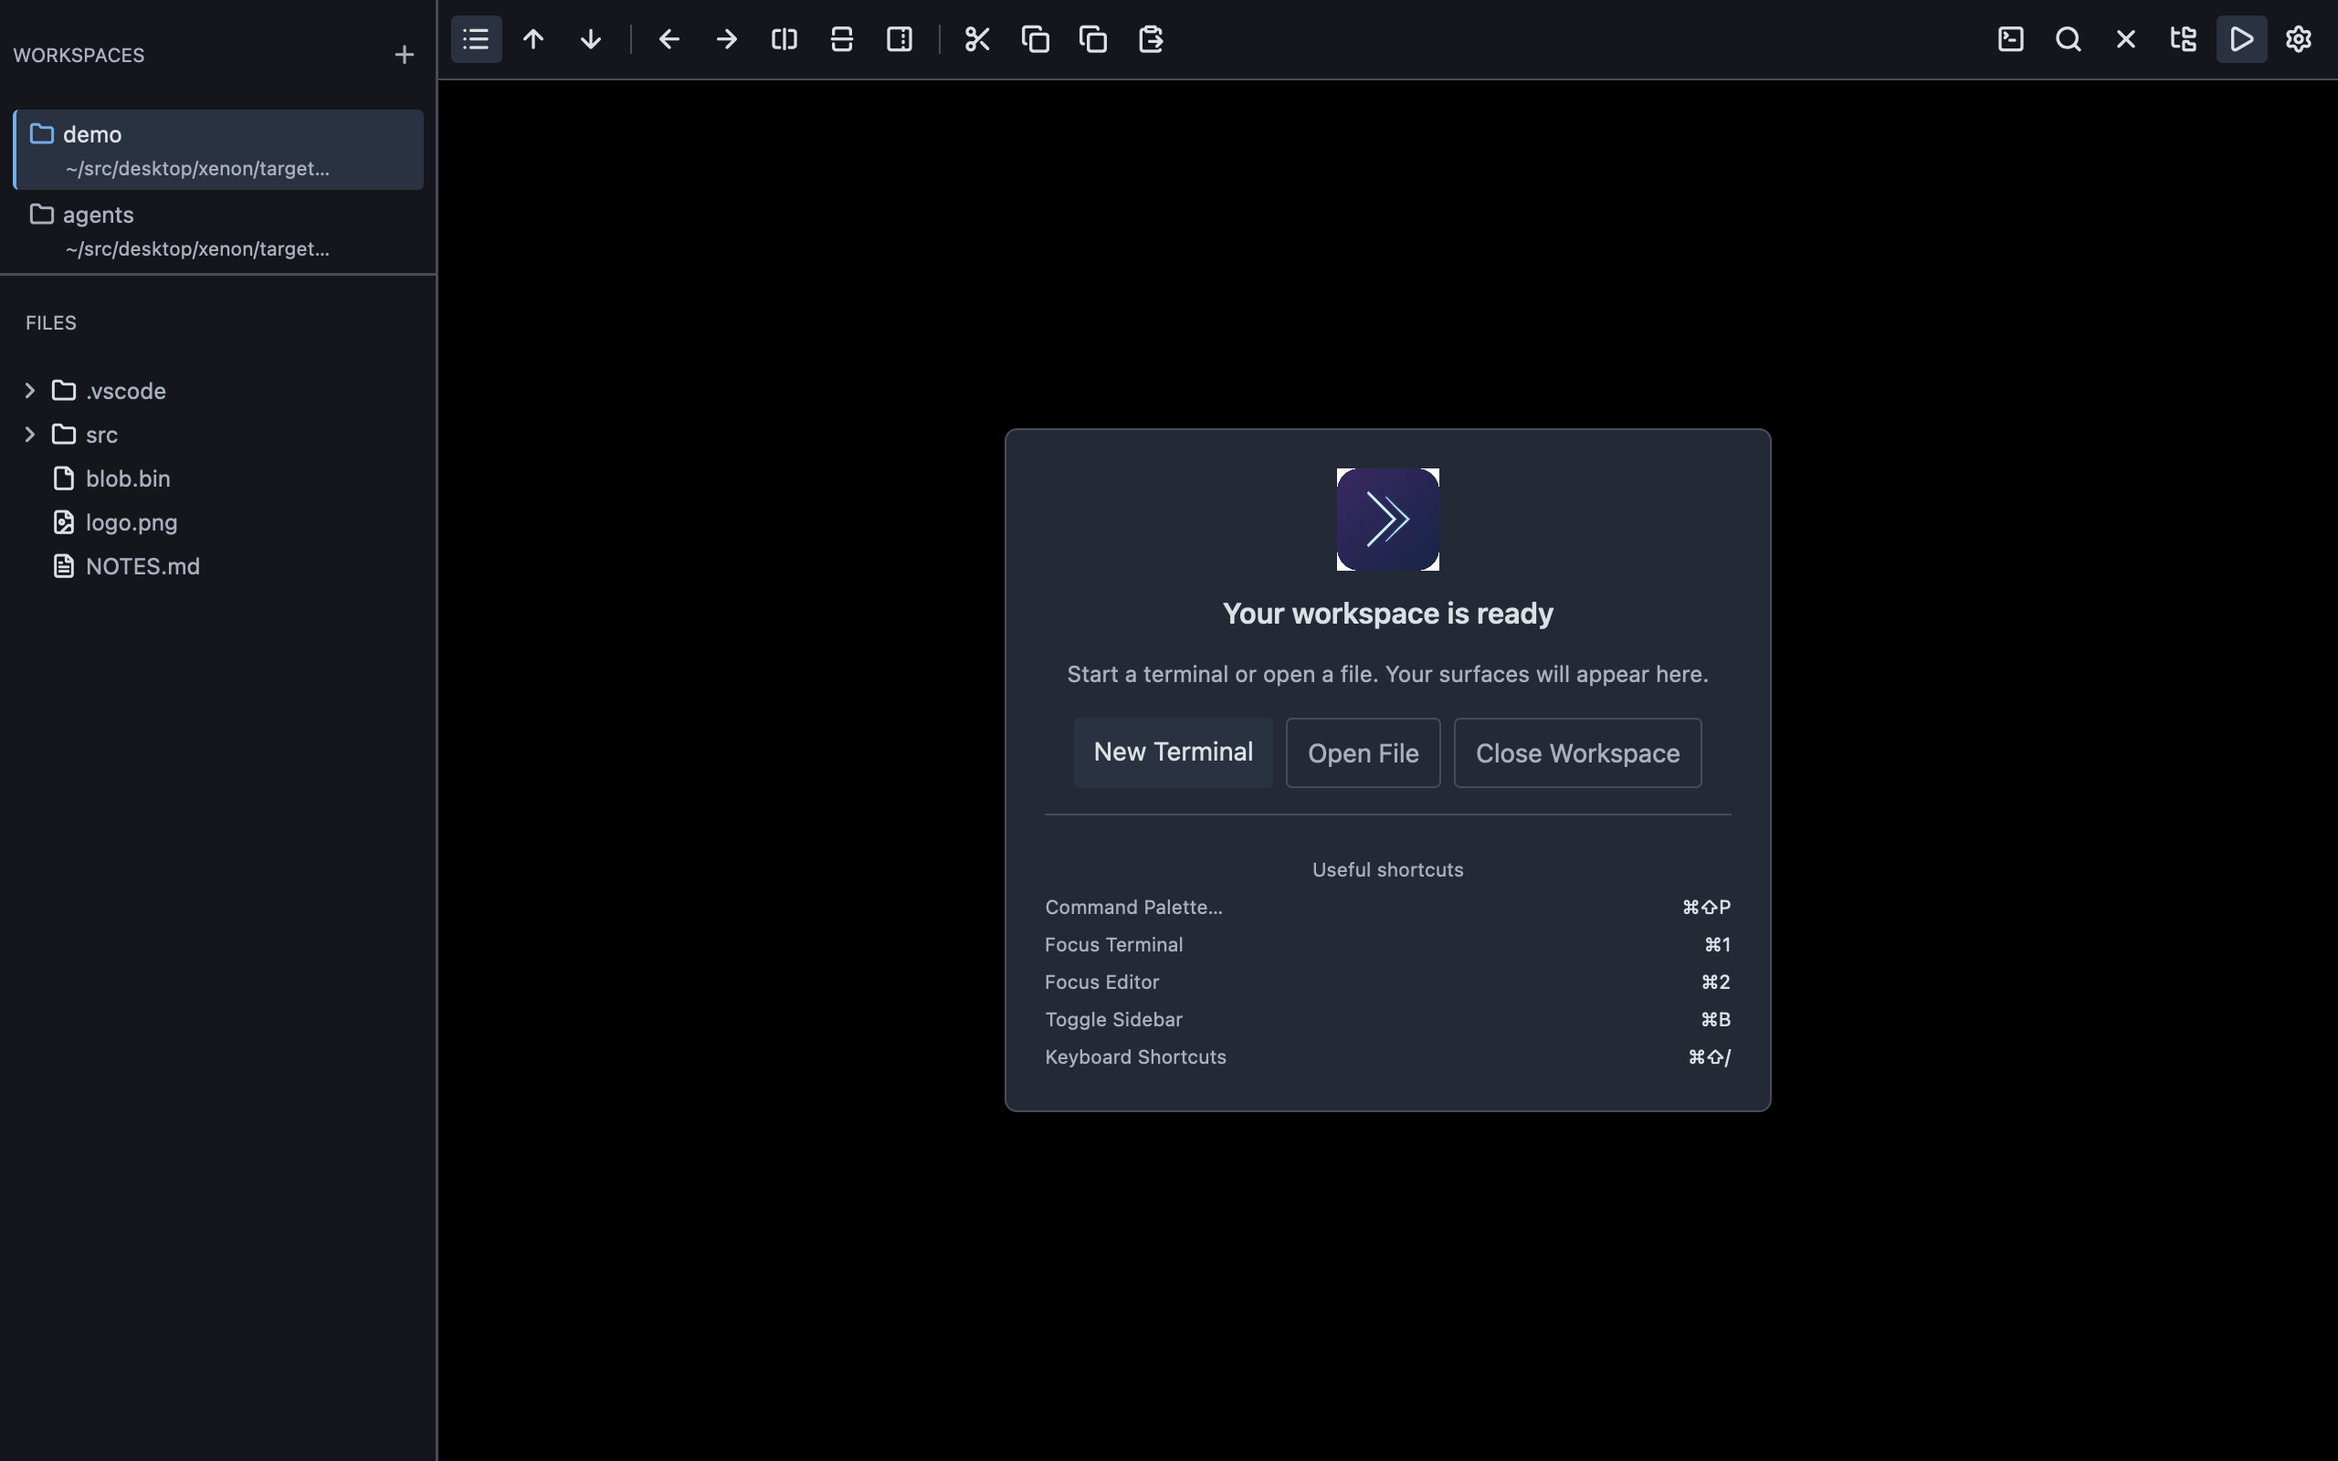
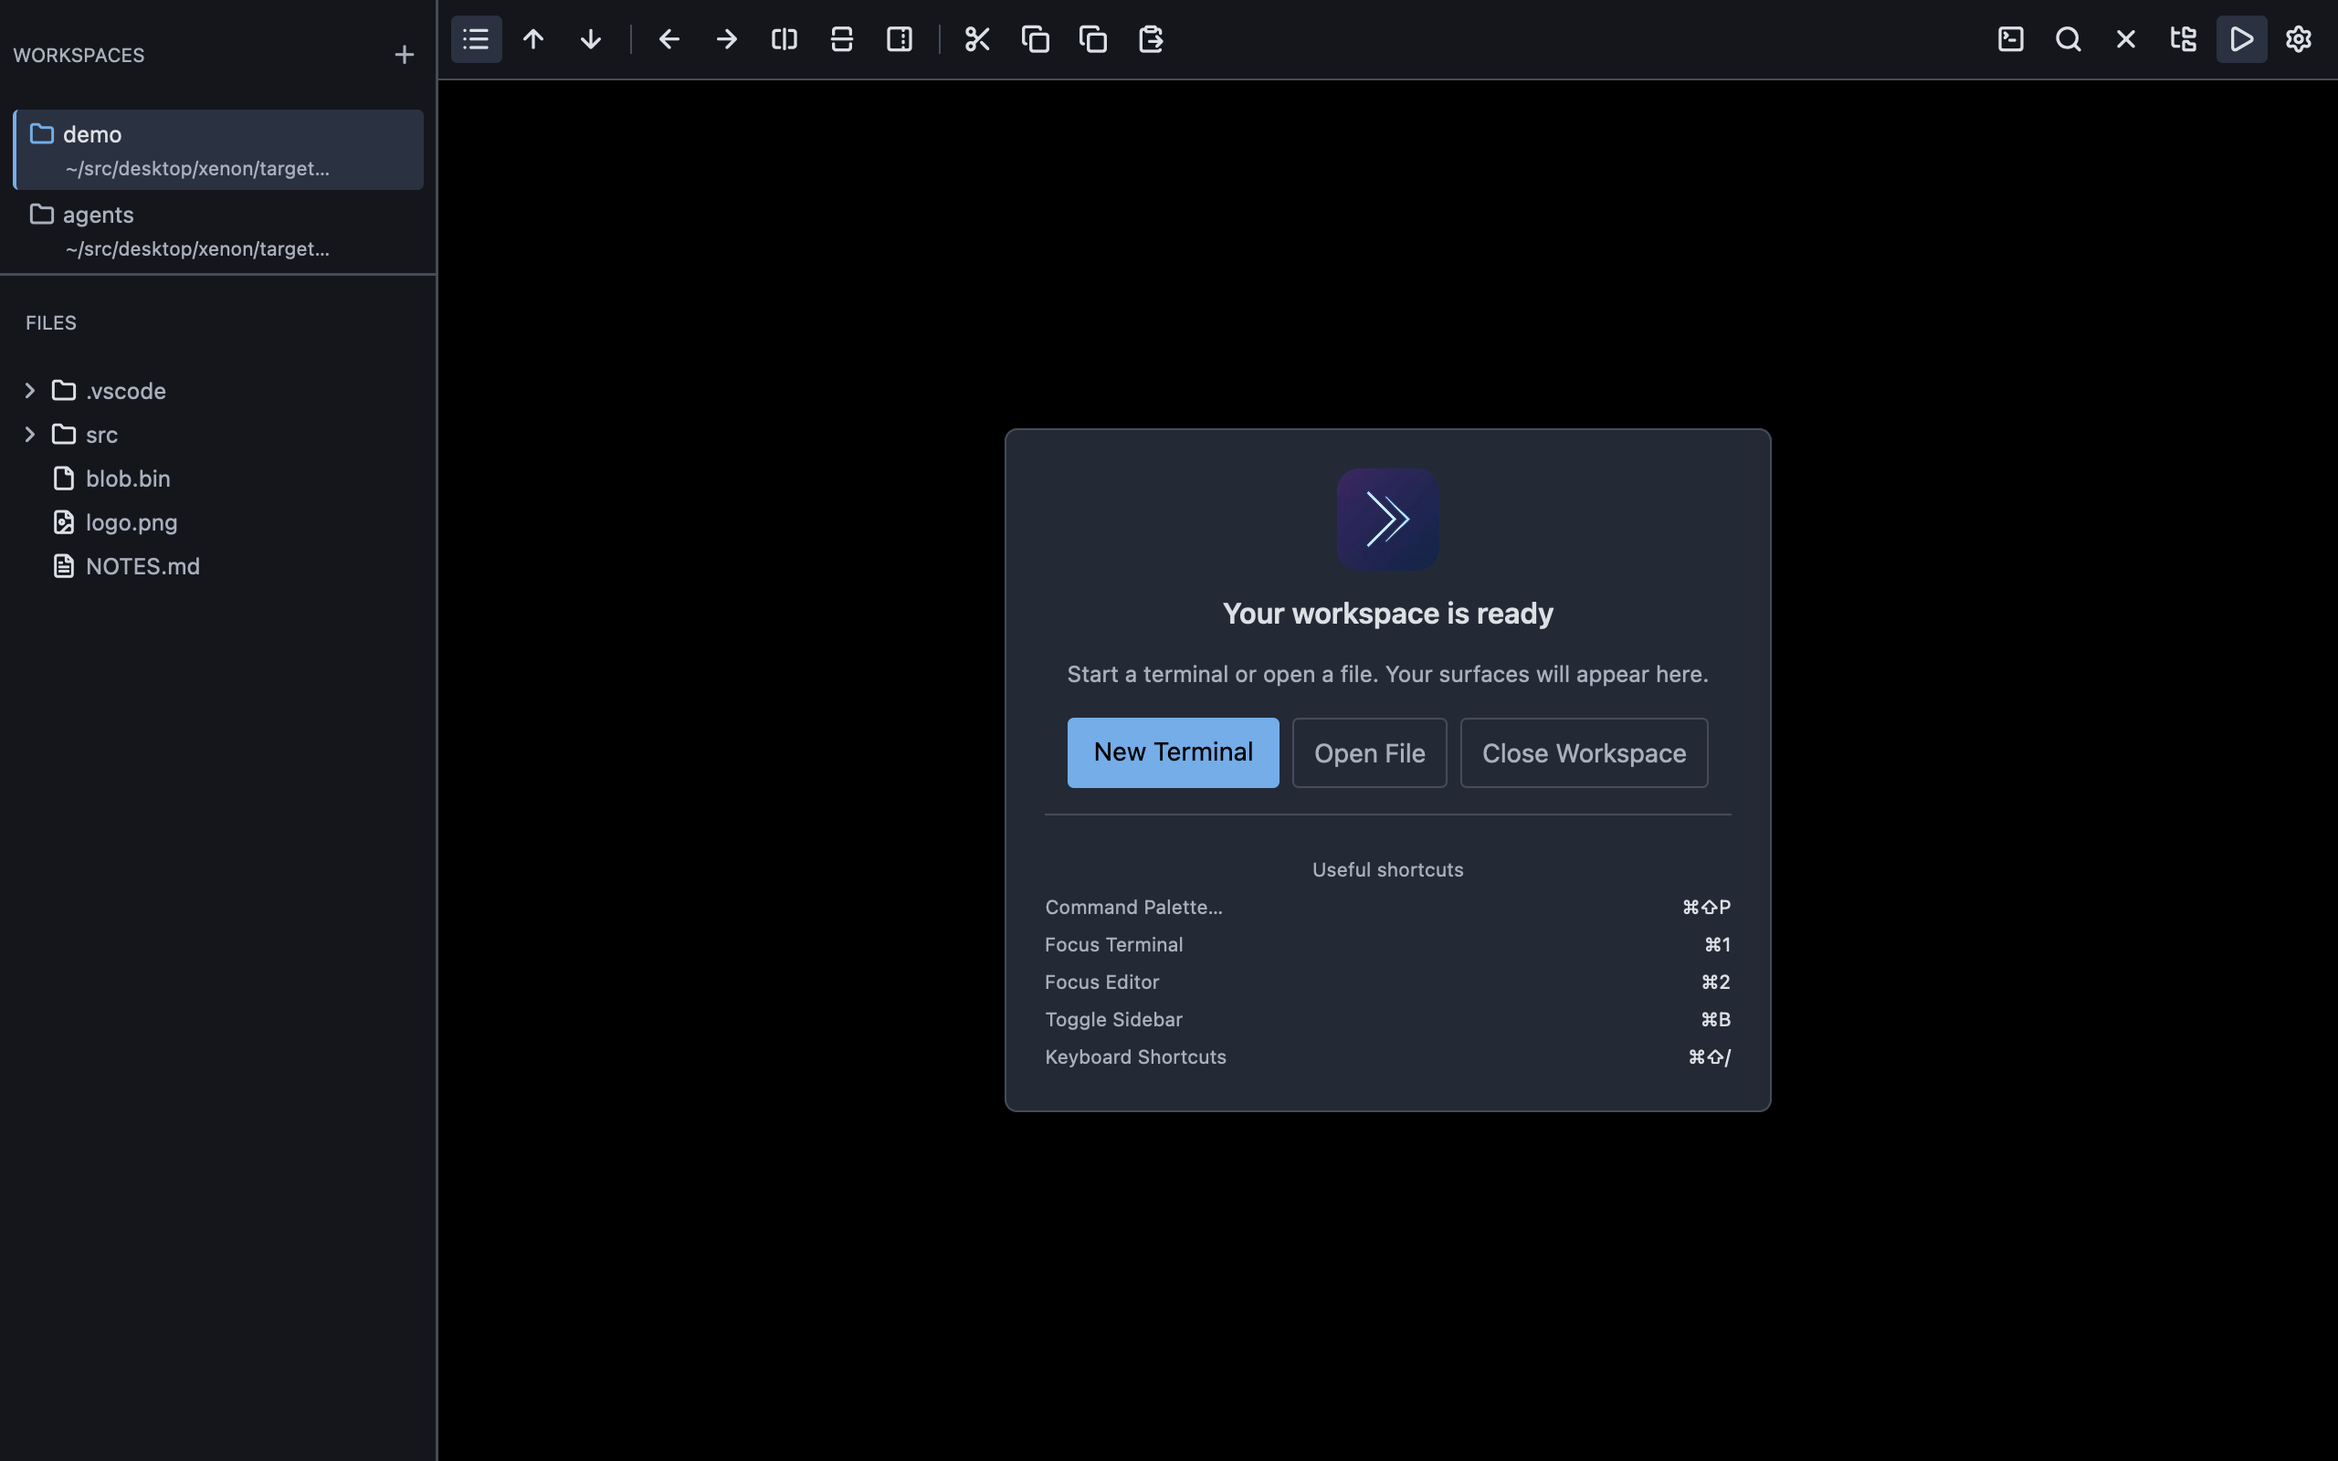
Polish workspace empty state and status rails

Changed region(s): [[0.4375, 0.4688, 0.7188, 0.5625]]

diff --git a/crates/xenon_ui/src/sidebar/mod.rs b/crates/xenon_ui/src/sidebar/mod.rs
@@ -44,7 +44,6 @@ struct WorkspaceTitle<'a> {
     id: WorkspaceId,
     name: &'a str,
     path: &'a str,
-    status: Option<WorkspaceDot>,
 }
 
 impl XenonApp {
@@ -271,6 +270,15 @@ impl XenonApp {
         let group = format!("ws-{id}");
         let drop_line = colors.drop_target_border;
         let path_tip = SharedString::from(path.to_string());
+        let edge_color = if active {
+            colors.text_accent
+        } else {
+            match status {
+                Some(WorkspaceDot::Working) => crate::chrome::status_color(cx, false),
+                Some(WorkspaceDot::Attention(_)) => crate::chrome::status_color(cx, true),
+                None => gpui::transparent_black(),
+            }
+        };
         let row = div()
             .id(("ws-row", id_hash(id.to_string())))
             .group(group.clone())
@@ -289,11 +297,7 @@ impl XenonApp {
             })
             .when(!active, |s| s.text_color(colors.text_muted))
             .border_l_2()
-            .border_color(if active {
-                colors.text_accent
-            } else {
-                gpui::transparent_black()
-            })
+            .border_color(edge_color)
             .tooltip(path_tooltip(path_tip))
             .on_drag(DragWorkspace(id), drag_chip(name))
             .can_drop(move |drag, _, _| {
@@ -306,25 +310,17 @@ impl XenonApp {
                     this.reorder_workspace(dragged.0, id, cx)
                 }),
             )
-            .child(self.workspace_title_hit(
-                WorkspaceTitle {
-                    id,
-                    name,
-                    path,
-                    status,
-                },
-                cx,
-            ))
+            .child(self.workspace_title_hit(WorkspaceTitle { id, name, path }, cx))
             .child(workspace_dirt_gutter(dirt, &group, &colors))
             .child(self.workspace_hover_actions(id, &group, &colors, cx));
         #[cfg(not(feature = "visual-tests"))]
-        if active {
+        if !active && matches!(status, Some(WorkspaceDot::Working)) {
             row.with_animation(
-                ("workspace-edge", id_hash(id.to_string())),
+                ("workspace-status", id_hash(id.to_string())),
                 Animation::new(std::time::Duration::from_millis(1400))
                     .repeat()
                     .with_easing(|delta| (delta * std::f32::consts::TAU).sin().mul_add(0.25, 0.75)),
-                move |this, delta| this.border_color(colors.text_accent.opacity(delta)),
+                move |this, delta| this.border_color(edge_color.opacity(delta)),
             )
             .into_any_element()
         } else {
@@ -359,19 +355,8 @@ impl XenonApp {
         cx: &mut Context<Self>,
     ) -> impl IntoElement + use<> {
         let colors = cx.theme().colors().clone();
-        let WorkspaceTitle {
-            id,
-            name,
-            path,
-            status,
-        } = title;
+        let WorkspaceTitle { id, name, path } = title;
         let active = self.active_workspace() == Some(id);
-        let attention_dot = status.map(|dot| {
-            div()
-                .id(("ws-attention", id_hash(id.to_string())))
-                .tooltip(path_tooltip(SharedString::from(dot.tooltip())))
-                .child(dot.pip(cx))
-        });
         div()
             .id(("ws-select", id_hash(id.to_string())))
             .flex()
@@ -406,8 +391,7 @@ impl XenonApp {
                             .font_weight(gpui::FontWeight::MEDIUM)
                             .child(name.to_string()),
                     )
-                    .child(div().flex_1())
-                    .children(attention_dot),
+                    .child(div().flex_1()),
             )
             .child(
                 div()

diff --git a/crates/xenon_ui/src/app/empty_state.rs b/crates/xenon_ui/src/app/empty_state.rs
@@ -40,19 +40,25 @@ impl XenonApp {
         };
         let primary = if has_workspace {
             let hover = colors.element_hover;
+            let target_pane = remove_pane;
             div()
                 .id("empty-new-terminal")
-                .px_3()
+                .px_4()
                 .py_2()
                 .rounded_sm()
-                .bg(colors.element_selected)
-                .text_color(colors.text)
+                .bg(colors.text_accent)
+                .text_color(colors.background)
                 .font_weight(gpui::FontWeight::MEDIUM)
                 .cursor_pointer()
                 .hover(move |s| s.bg(hover))
+                .tooltip(crate::tabs::tip_tooltip("New Terminal · ⌘N".into()))
                 .child("New Terminal")
-                .on_click(cx.listener(|this, _, window, cx| {
-                    this.new_terminal(window, cx);
+                .on_click(cx.listener(move |this, _, window, cx| {
+                    if let Some(pane) = target_pane {
+                        this.new_terminal_in_pane(pane, window, cx);
+                    } else {
+                        this.new_terminal(window, cx);
+                    }
                 }))
                 .into_any_element()
         } else {
@@ -86,6 +92,7 @@ impl XenonApp {
                 .text_color(colors.text_muted)
                 .cursor_pointer()
                 .hover(move |s| s.bg(hover).text_color(text))
+                .tooltip(crate::tabs::tip_tooltip("Open File · ⌘O".into()))
                 .child("Open File")
                 .on_click(cx.listener(|this, _, window, cx| {
                     this.open_palette(window, cx);
@@ -105,6 +112,7 @@ impl XenonApp {
                 .text_color(colors.text_muted)
                 .cursor_pointer()
                 .hover(move |s| s.bg(hover).text_color(text))
+                .tooltip(crate::tabs::tip_tooltip("Close Workspace · ⌘⌥W".into()))
                 .child("Close Workspace")
                 .on_click(cx.listener(|this, _, window, cx| {
                     this.close_active_workspace(window, cx);

diff --git a/crates/xenon_ui/src/tabs/mod.rs b/crates/xenon_ui/src/tabs/mod.rs
@@ -32,7 +32,10 @@ fn tab_underline(paint: SelectionPaint) -> impl IntoElement {
         .bg(paint.accent)
 }
 
-fn tab_status_rail(status: WorkspaceDot, _selected: bool, cx: &App) -> gpui::AnyElement {
+fn tab_status_rail(status: WorkspaceDot, selected: bool, cx: &App) -> Option<gpui::AnyElement> {
+    if selected {
+        return None;
+    }
     let color = match status {
         WorkspaceDot::Working => crate::chrome::status_color(cx, false),
         WorkspaceDot::Attention(_) => crate::chrome::status_color(cx, true),
@@ -45,18 +48,19 @@ fn tab_status_rail(status: WorkspaceDot, _selected: bool, cx: &App) -> gpui::Any
         .h(px(2.))
         .bg(color);
     #[cfg(not(feature = "visual-tests"))]
-    if matches!(status, WorkspaceDot::Working) && !_selected {
-        return rail
-            .with_animation(
+    if matches!(status, WorkspaceDot::Working) {
+        return Some(
+            rail.with_animation(
                 "tab-working-rail",
                 Animation::new(std::time::Duration::from_millis(1400))
                     .repeat()
                     .with_easing(|delta| (delta * std::f32::consts::TAU).sin().mul_add(0.25, 0.75)),
                 move |this, delta| this.opacity(delta),
             )
-            .into_any_element();
+            .into_any_element(),
+        );
     }
-    rail.into_any_element()
+    Some(rail.into_any_element())
 }
 
 fn term_chip_paint(
@@ -373,7 +377,7 @@ impl XenonApp {
                     .truncate()
                     .child(display_title),
             )
-            .children(status.map(|dot| tab_status_rail(dot, is_active, cx)))
+            .children(status.and_then(|dot| tab_status_rail(dot, is_active, cx)))
             .child(tab_close(
                 SharedString::from(format!("tab-close-{}-{}", pane.0, index)),
                 &group,

diff --git a/crates/xenon_ui/src/app/content_ops.rs b/crates/xenon_ui/src/app/content_ops.rs
@@ -101,6 +101,10 @@ impl XenonApp {
     }
 
     pub(crate) fn add_terminal(&mut self, cx: &mut Context<Self>) {
+        self.add_terminal_to_pane(None, cx);
+    }
+
+    fn add_terminal_to_pane(&mut self, target: Option<PaneId>, cx: &mut Context<Self>) {
         let Some(id) = self.active else {
             return;
         };
@@ -121,6 +125,16 @@ impl XenonApp {
                 parked: false,
             }));
             content.focused = Some(pane);
+        } else if let Some(pane) = target
+            && let Some(leaf) = content
+                .root
+                .as_mut()
+                .and_then(|root| root.find_leaf_mut(pane))
+        {
+            content.focused = Some(pane);
+            leaf.parked = false;
+            leaf.tabs.push(tab);
+            leaf.active = leaf.tabs.len() - 1;
         } else if let Some(leaf) = content.focused_leaf_mut() {
             leaf.parked = false;
             leaf.tabs.push(tab);
@@ -149,6 +163,20 @@ impl XenonApp {
         self.follow_gpui_leaf(window, cx);
         self.browser_focused = false;
         self.add_terminal(cx);
+        if let Some(terminal) = self.active_terminal() {
+            self.deferred.last_font_pane = FontPane::Terminal;
+            terminal.read(cx).focus_handle(cx).focus(window, cx);
+        }
+    }
+
+    pub(super) fn new_terminal_in_pane(
+        &mut self,
+        pane: PaneId,
+        window: &mut Window,
+        cx: &mut Context<Self>,
+    ) {
+        self.browser_focused = false;
+        self.add_terminal_to_pane(Some(pane), cx);
         if let Some(terminal) = self.active_terminal() {
             self.deferred.last_font_pane = FontPane::Terminal;
             terminal.read(cx).focus_handle(cx).focus(window, cx);

diff --git a/crates/xenon_ui/src/app/attention.rs b/crates/xenon_ui/src/app/attention.rs
@@ -22,7 +22,7 @@ impl AttentionReason {
     }
 }
 
-/// Sidebar / tab status pip. Working outranks a settled attention mark.
+/// Terminal tab status. Working outranks a settled attention mark.
 #[derive(Clone, Copy, Debug, PartialEq, Eq)]
 pub(crate) enum WorkspaceDot {
     Working,
@@ -34,17 +34,6 @@ impl WorkspaceDot {
         match self {
             Self::Working => "Working",
             Self::Attention(label) => label,
-        }
-    }
-
-    pub(crate) fn pip(self, cx: &App) -> impl IntoElement {
-        match self {
-            Self::Working => {
-                crate::chrome::status_pip(crate::chrome::status_color(cx, false), true, cx)
-            }
-            Self::Attention(_) => {
-                crate::chrome::status_pip(crate::chrome::status_color(cx, true), false, cx)
-            }
         }
     }
 }

diff --git a/crates/xenon_design_system/src/lib.rs b/crates/xenon_design_system/src/lib.rs
@@ -8,7 +8,7 @@ use std::time::Duration;
 #[cfg(feature = "visual-tests")]
 use gpui::Global;
 use gpui::{
-    Animation, AnimationExt, AnyElement, App, ElementId, Hsla, IntoElement, Styled, div, px,
+    Animation, AnimationExt, AnyElement, App, ElementId, Hsla, IntoElement, Styled, px,
     transparent_black,
 };
 use theme::ThemeColors;
@@ -119,18 +119,6 @@ pub fn section_reveal(
             },
         )
         .into_any_element()
-}
-
-/// Six-pixel status pip. Working pulses; attention stays static.
-pub fn status_pip(color: Hsla, pulse: bool, cx: &App) -> impl IntoElement {
-    let _ = (pulse, cx);
-    let pip = div()
-        .w(px(6.))
-        .h(px(6.))
-        .rounded_full()
-        .bg(color)
-        .flex_none();
-    pip.into_any_element()
 }
 
 fn same_color(a: Hsla, b: Hsla) -> bool {

diff --git a/crates/xenon_ui/src/chrome.rs b/crates/xenon_ui/src/chrome.rs
@@ -3,5 +3,5 @@
 //! dependency so other Xenon surfaces can reuse the same vocabulary.
 
 pub(crate) use xenon_design_system::{
-    SelectionPaint, accent_surface, list_selection, status_color, status_pip, tab_selection,
+    SelectionPaint, accent_surface, list_selection, status_color, tab_selection,
 };

diff --git a/DESIGN.md b/DESIGN.md
@@ -11,7 +11,7 @@ Product UI. Familiar IDE bones; signature is multi-stream anti-IDE chrome.
 
 Reusable chrome primitives live in `crates/xenon_design_system` and are consumed
 by `xenon_ui`. Its public vocabulary is `SelectionPaint`, `list_selection`,
-`tab_selection`, `accent_surface`, `status_pip`, and theme-semantic status
+`tab_selection`, `accent_surface`, and theme-semantic status
 colors. Feature composition remains in `xenon_ui`.
 
 The workspace rail uses a compact two-line row: folder icon and workspace name
@@ -66,11 +66,12 @@ panel, `list_selection` rows, scrollable results (`flex_1` + `min_h_0` +
 
 ## Attention
 
-`theme.status().warning` is a static yellow top rail on a terminal tab that needs
-the user (bell or inferred idle-after-output). `theme.status().info` is a top
-rail while that terminal is in an agent-sized burst; it pulses only when the tab
-is not selected. Working outranks attention on the same tab; the workspace row
-is the aggregate of its terminals. Not hard-coded hex.
+`theme.status().warning` is a static yellow status rail on an unselected terminal
+tab that needs the user (bell or inferred idle-after-output). `theme.status().info`
+is a pulsing status rail on an unselected terminal tab while it is in an agent-sized
+burst. Selected tabs have no status rail; the bottom accent underline is
+selection-only. Working outranks attention on the same tab; the workspace row is
+the aggregate of its terminals. Not hard-coded hex.
 
 ## Typography
 
@@ -81,7 +82,8 @@ editor/terminal content (settings-controlled faces).
 
 Selection is instant paint. Sidebar section open/close uses a 180ms spatial
 reveal with 6px travel. Unselected working workspace/tab rails use a quiet
-~1.4s opacity pulse; status dots remain static.
+~1.4s opacity pulse; finished attention uses a static warning rail. Selected
+workspace and tab rails do not carry status.
 
 ## Themes
 
